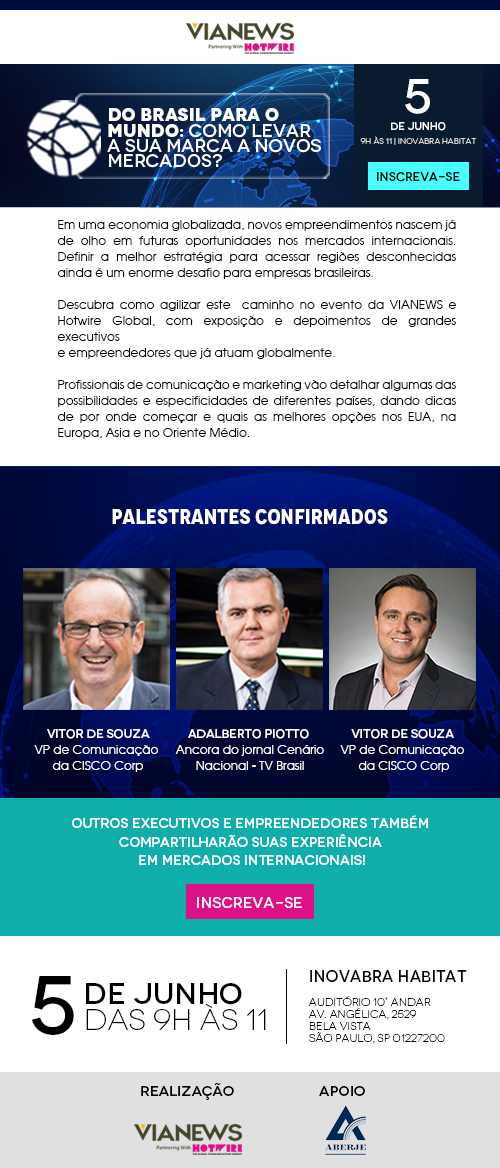
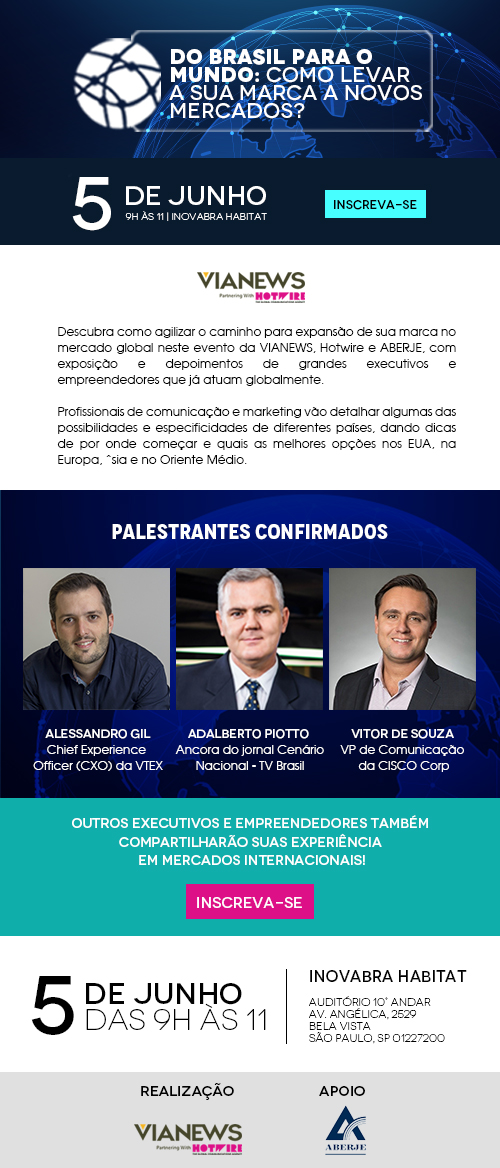
add novo palestrante

Changed region(s): [[0.0, 0.0, 1.0, 0.7089], [0.81, 0.5548, 1.0, 0.6473], [0.78, 0.6473, 0.81, 0.6781]]

diff --git a/aberje/index.html b/aberje/index.html
@@ -153,31 +153,7 @@
                         <td>
                             <![endif]-->
                 <table class="content" align="center" cellpadding="0" cellspacing="0" border="0">
-                    <tr>
-                        <td class="header" bgcolor="#ffffff">
-                            <!--[if (gte mso 9)|(IE)]>
-                <table width="350" align="center" cellpadding="0" cellspacing="0" border="0">
-                    <tr>
-                        <td>
-                            <![endif]-->
-                            <table class="logo_header" align="center" border="0" cellpadding="0" cellspacing="0" style="width: 100%; max-width: 350px;text-align: center;">
-                                <tr>
-                                    <td height="57" style="padding: 0 20px 10px 0;" align="center">
-                                            <a href="http://vianews.com.br/" style="border:0px;" target="_blank">
-                                        <img src="http://vianews.com.br/wp-content/uploads/2017/02/logo-3.png" width="200" height="57" border="0" alt="" />
-                                            </a>
-                                    </td>
-                                </tr>
-                            </table>
-                            <!--[if (gte mso 9)|(IE)]>
-                                    </td>
-                                  </tr>
-                              </table>
-                              <![endif]-->
-
-                        </td>
-
-                    </tr>
+                  
                     <tr>
                         <td bgcolor="#124268">
 
@@ -240,6 +216,31 @@
                         </td>
                     </tr>
                     <tr>
+                        <td class="header" bgcolor="#ffffff">
+                            <!--[if (gte mso 9)|(IE)]>
+                <table width="350" align="center" cellpadding="0" cellspacing="0" border="0">
+                    <tr>
+                        <td>
+                            <![endif]-->
+                            <table class="logo_header" align="center" border="0" cellpadding="0" cellspacing="0" style="width: 100%; max-width: 350px;text-align: center;">
+                                <tr>
+                                    <td height="57" style="padding: 0 20px 10px 0;" align="center">
+                                            <a href="http://vianews.com.br/" style="border:0px;" target="_blank">
+                                        <img src="http://vianews.com.br/wp-content/uploads/2017/02/logo-3.png" width="200" height="57" border="0" alt="" />
+                                            </a>
+                                    </td>
+                                </tr>
+                            </table>
+                            <!--[if (gte mso 9)|(IE)]>
+                                    </td>
+                                  </tr>
+                              </table>
+                              <![endif]-->
+
+                        </td>
+
+                    </tr>
+                    <tr>
                         <td class="innerpadding" bgcolor="#ffffff">
                             <table width="100%" border="0" cellspacing="0" cellpadding="0">
 
@@ -281,19 +282,19 @@
                                                                 <table width="170" align="left" border="0" cellpadding="0" cellspacing="0">
                                                                     <tr>
                                                                         <td>
-                                                                            <img src="https://s3.amazonaws.com/images-vianews/participante1.png" width="100%" border="0" alt="" />
+                                                                            <img src="https://s3.amazonaws.com/images-vianews/participante1.jpg" width="100%" border="0" alt="" />
                                                                         </td>
                                                                     </tr>
                                                                 </table>
                                                                 <table class="participante" width="100%" border="0" cellspacing="0" cellpadding="0">
                                                                     <tr>
                                                                         <td class="participante-titulo">
-                                                                            VITOR DE SOUZA
+                                                                           ALESSANDRO GIL
                                                                         </td>
                                                                     </tr>
                                                                     <tr>
                                                                         <td>
-                                                                            VP de Comunicação da CISCO Corp
+                                                                            Chief Experience Officer (CXO) da VTEX
                                                                         </td>
                                                                     </tr>
 
@@ -326,12 +327,12 @@
                                                                 <table class="participante" width="100%" border="0" cellspacing="0" cellpadding="0">
                                                                     <tr>
                                                                         <td class="participante-titulo">
-                                                                            ANDY WEST
+                                                                            ADALBERTO PIOTTO
                                                                         </td>
                                                                     </tr>
                                                                     <tr>
                                                                         <td>
-                                                                            Chief Development Officer da Hotwire
+                                                                            Âncora do jornal Cenário Nacional - TV Brasil
                                                                         </td>
                                                                     </tr>
 
@@ -364,14 +365,15 @@
                                                                 <table class="participante" width="100%" border="0" cellspacing="0" cellpadding="0">
                                                                     <tr>
                                                                         <td class="participante-titulo">
-                                                                            ADALBERTO PIOTTO
+                                                                            VITOR DE SOUZA
                                                                         </td>
                                                                     </tr>
                                                                     <tr>
                                                                         <td>
-                                                                            Âncora do jornal Cenário Nacional - TV Brasil
+                                                                            VP de Comunicação da CISCO Corp
                                                                         </td>
                                                                     </tr>
+                                                                   
 
 
                                                                 </table>
